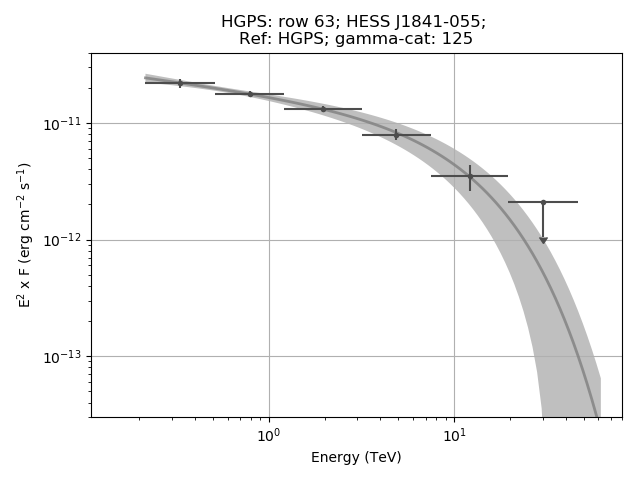
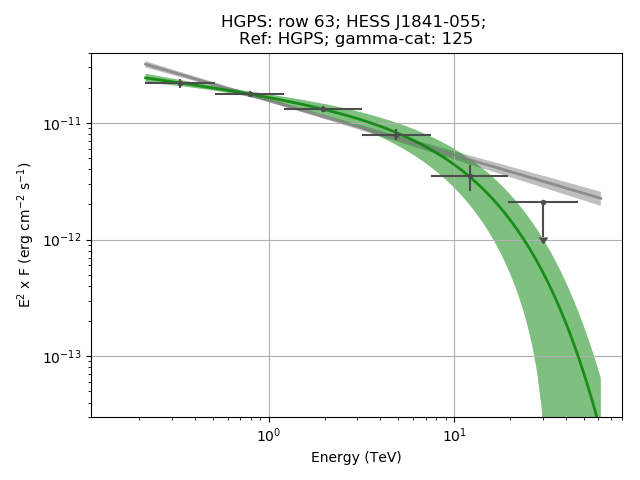
update

Changed region(s): [[0.2188, 0.125, 0.9375, 0.875]]

diff --git a/check.py b/check.py
@@ -1,10 +1,8 @@
 #!/usr/bin/env python
 import functools
 from pathlib import Path
-import numpy as np
 from astropy.io import fits
 from astropy.table import Table
-from astropy.units import Quantity
 from gammapy.catalog import SourceCatalogHGPS, SourceCatalogGammaCat
 import matplotlib
 import click
@@ -43,8 +41,8 @@ def get_gamma_cat_source_for_hgps_source(source):
     row_idx = list(cat.table['source_id']).index(gc_id)
     gc_source = cat[row_idx]
 
-    print(source.name)
-    print(gc_source.name)
+    print('HGPS source:', source.name)
+    print('Gamma-cat source:', gc_source.name)
     return gc_source
 
 
@@ -102,49 +100,62 @@ def cli_sources_txt():
 @cli.command('sources-spec')
 def cli_sources_spec():
     """Plot spectrum for each source."""
-
-    filename = config.out_path / config.filename_cat
-    print(f'Reading {filename}')
-    cat = SourceCatalogHGPS(filename)
+    cat = get_hgps_cat()
 
     for source in cat:
-        plot_spec(source)
+        plot_spec(source, show_gamma_cat=False)
         # break
 
 
-def plot_spec(source):
+@cli.command('gammapy')
+def cli_gammapy():
+    """Checks for Gammapy."""
+    cat = get_hgps_cat()
+
+    # [_.spectrum_type for _ in cat]
+
+    for source in cat:
+        source.spectral_model('pl')
+
+
+def plot_spec(source, show_gamma_cat):
     import matplotlib.pyplot as plt
     fig, ax = plt.subplots()
 
     energy_range = source.energy_range
-    source.spectral_model.plot_error(
-        ax=ax, energy_range=energy_range, energy_power=2, alpha=0.5,
-        facecolor='gray'
-    )
-    source.spectral_model.plot(
-        ax=ax, energy_range=energy_range, energy_power=2,
-        color='gray', alpha=0.8, lw=2
-    )
+    opts = dict(ax=ax, energy_range=energy_range, energy_power=2)
+
+    # Always show PL
+    model = source.spectral_model('pl')
+    model.plot_error(alpha=0.5, facecolor='gray', **opts)
+    model.plot(color='gray', alpha=0.8, lw=2, **opts)
+
+    # Show ECPL in addition if significant
+    if source.spectral_model_type == 'ecpl':
+        model = source.spectral_model('ecpl')
+        model.plot_error(alpha=0.5, facecolor='green', **opts)
+        model.plot(color='green', alpha=0.8, lw=2, **opts)
 
     source.flux_points.plot(
         ax=ax, energy_power=2, markeredgecolor='None', marker='o',
         markersize=4, capsize=0, color='0.3', zorder=10,
     )
 
-    extern_source = get_gamma_cat_source_for_hgps_source(source)
-    if extern_source is not None:
-        # import IPython; IPython.embed()
-        if extern_source.data['spec_type'] != 'none':
-            extern_source.spectral_model.plot(
-                ax=ax, energy_range=energy_range, energy_power=2,
-                color='red', alpha=0.5, lw=2,
-            )
+    if show_gamma_cat:
+        extern_source = get_gamma_cat_source_for_hgps_source(source)
+        if extern_source is not None:
+            # import IPython; IPython.embed()
+            if extern_source.data['spec_type'] != 'none':
+                extern_source.spectral_model.plot(
+                    ax=ax, energy_range=energy_range, energy_power=2,
+                    color='red', alpha=0.1, lw=2,
+                )
 
-        if extern_source.data['sed_n_points'] != 0:
-            extern_source.flux_points.plot(
-                ax=ax, energy_power=2, markeredgecolor='None', marker='o',
-                markersize=4, capsize=0, color='red', zorder=10, alpha=0.5,
-            )
+            if extern_source.data['sed_n_points'] != 0:
+                extern_source.flux_points.plot(
+                    ax=ax, energy_power=2, markeredgecolor='None', marker='o',
+                    markersize=4, capsize=0, color='red', zorder=10, alpha=0.5,
+                )
 
     title = (
         f'HGPS: row {source.index}; {source.name}; {source.data["Identified_Object"]}\n'
